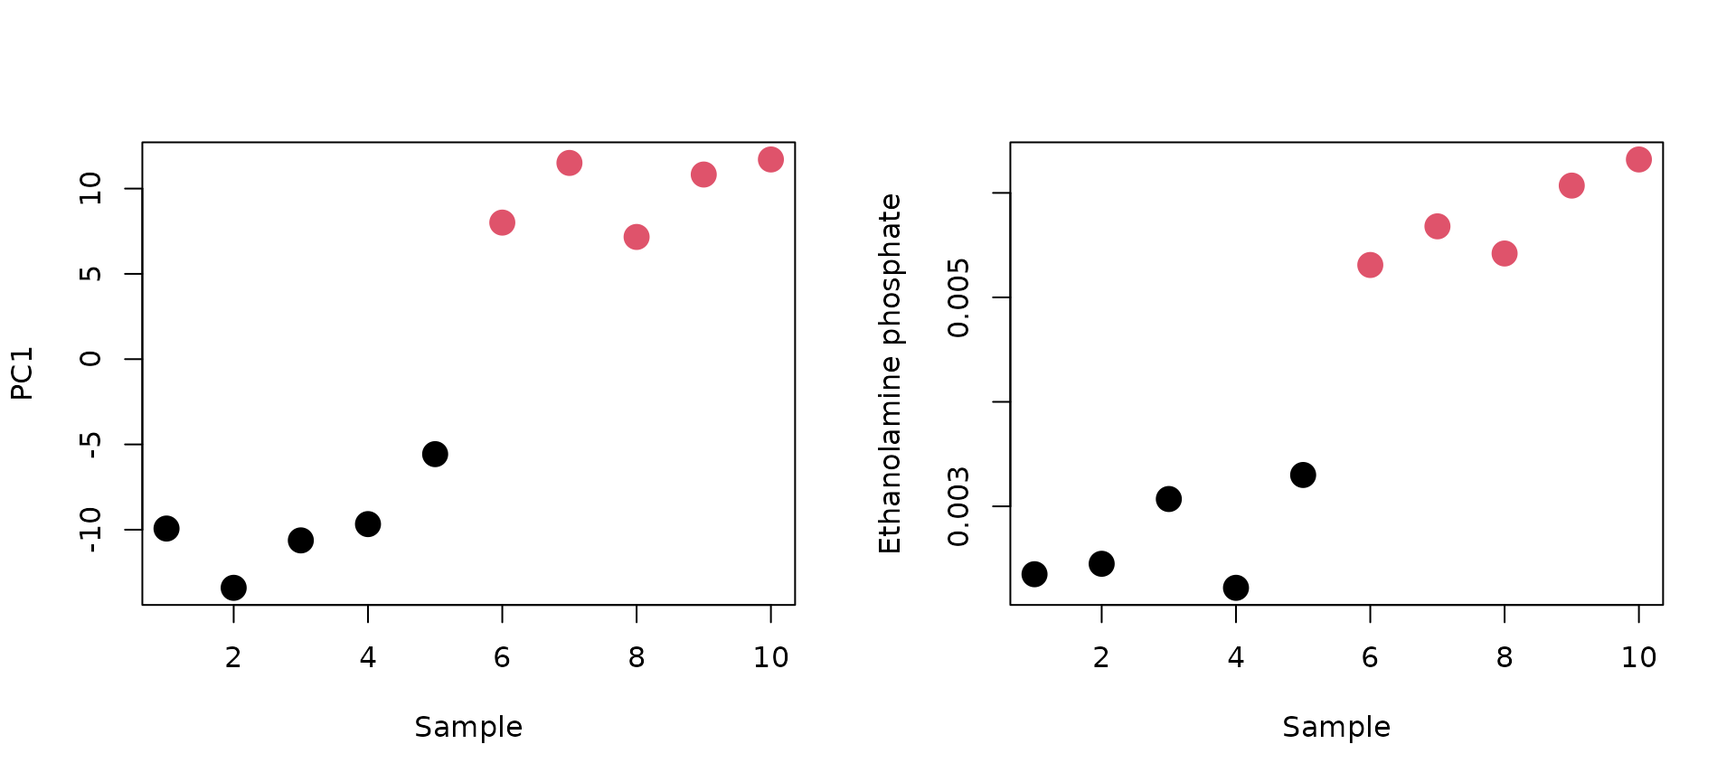
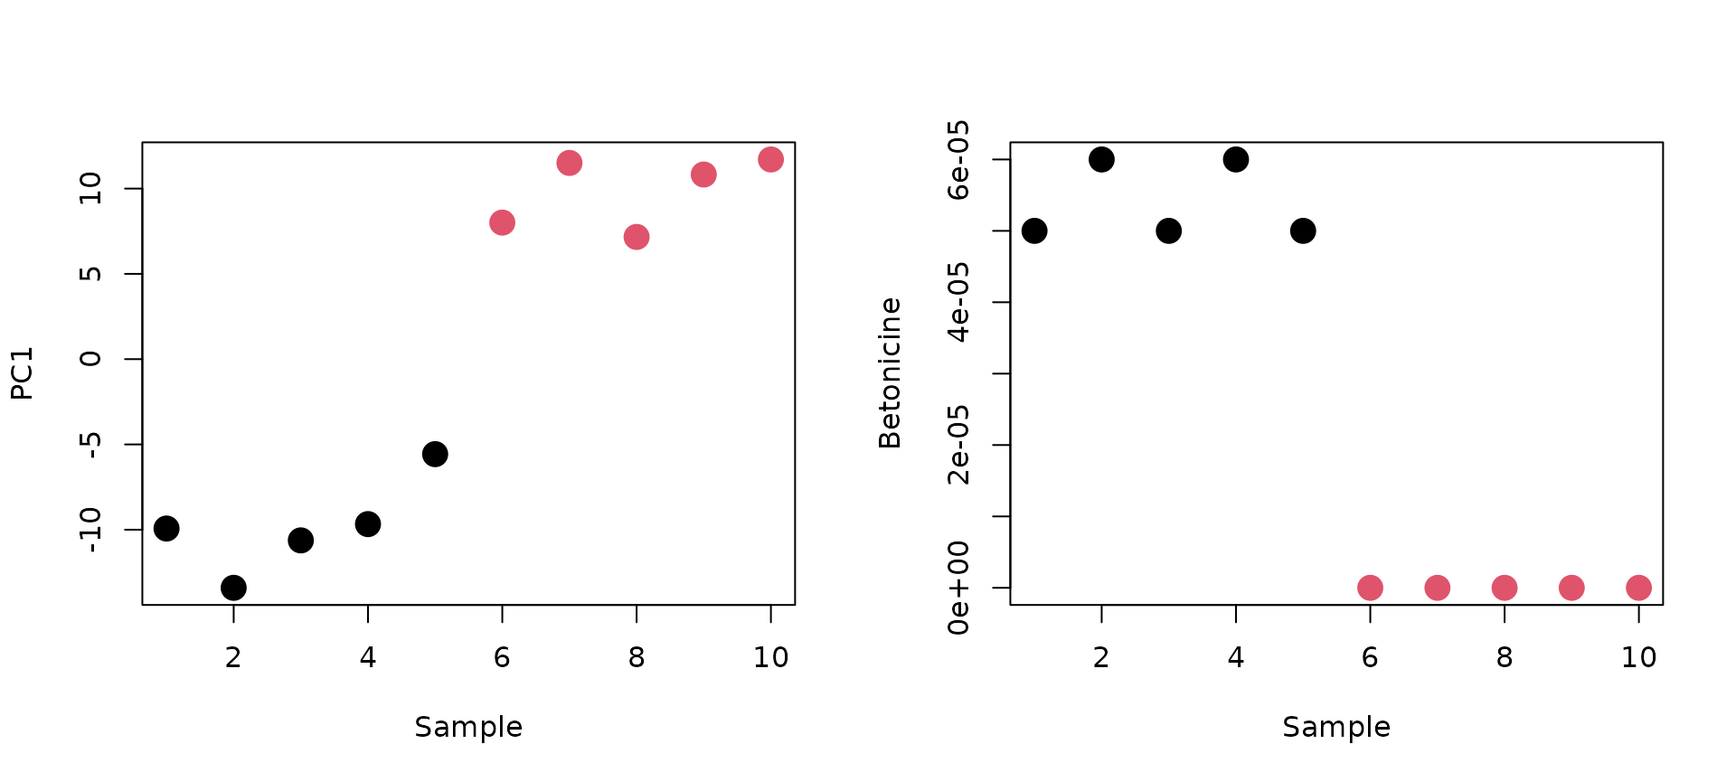
Deploying to gh-pages from  @ 76f66d41bde27bf479dec1cddfcc3a465d5d4350 🚀

diff --git a/articles/pca.html b/articles/pca.html
@@ -117,7 +117,7 @@ pre {
 <div id="主成分分析principal-component-analysis-pca" class="section level2">
 <h2 class="hasAnchor">
 <a href="#%E4%B8%BB%E6%88%90%E5%88%86%E5%88%86%E6%9E%90principal-component-analysis-pca" class="anchor"></a>主成分分析、Principal component analysis (PCA)</h2>
-loadingsパッケージを用いた主成分分析の流れについて説明する．
+<a href="https://cran.r-project.org/web/packages/loadings/index.html">loadingsパッケージ</a>を用いた主成分分析の流れについて説明する．
 <p>
 </p>
 <ul>
@@ -137,7 +137,6 @@ loadingsパッケージを用いた主成分分析の流れについて説明す
 <code class="sourceCode R"><span class="kw"><a href="https://rdrr.io/r/base/library.html">library</a></span><span class="op">(</span><span class="va">loadings</span><span class="op">)</span>
 
 <span class="fu"><a href="https://rdrr.io/r/utils/data.html">data</a></span><span class="op">(</span><span class="va">fasting</span><span class="op">)</span>
-
 <span class="va">X</span> <span class="op">&lt;-</span> <span class="va">fasting</span><span class="op">$</span><span class="va">X</span></code></pre></div>
 <p>主成分分析には，prcomp関数が用いられる．またここではデータをautoscaling(各代謝物毎に，平均0，分散1にする) によるスケーリングを行っている．第1主成分と第2主成分スコアをプロットしたものを以下に示す．</p>
 <div class="sourceCode" id="cb2"><pre class="downlit sourceCode r">
@@ -151,10 +150,8 @@ loadingsパッケージを用いた主成分分析の流れについて説明す
 <span class="va">class</span> <span class="op">&lt;-</span> <span class="fu"><a href="https://rdrr.io/r/base/c.html">c</a></span><span class="op">(</span><span class="fl">1</span>,<span class="fl">1</span>,<span class="fl">1</span>,<span class="fl">1</span>,<span class="fl">1</span>,<span class="fl">2</span>,<span class="fl">2</span>,<span class="fl">2</span>,<span class="fl">2</span>,<span class="fl">2</span><span class="op">)</span>
 <span class="fu"><a href="https://rdrr.io/r/graphics/plot.default.html">plot</a></span><span class="op">(</span><span class="va">PC_score</span>, col<span class="op">=</span><span class="va">class</span>, pch<span class="op">=</span><span class="fl">16</span>, cex<span class="op">=</span><span class="fl">2</span><span class="op">)</span></code></pre></div>
 <p><img src="pca_files/figure-html/unnamed-chunk-2-1.png" width="480"></p>
-黒丸が通常飼育，赤丸が12時間絶食後のマウスを表している．
-<p>
-主成分分析の結果より，第1主成分で群間差が確認されたことから，第1主成分スコアと関連する代謝物を確認することで，12時間の絶食で低値もしくは高値を示す代謝物を確認することが出来る．
-</p>
+黒丸が通常飼育，赤丸が12時間絶食後のマウスを表している．<br><p>
+主成分分析の結果より，第1主成分で群間差が確認されたことから，第1主成分スコアと関連する代謝物を確認することで，12時間の絶食で低値もしくは高値を示す代謝物を確認することが出来る．<br></p>
 <p>
 </p>
 <p>次に実際に第1主成分スコアと関連する代謝物を主成分係数を用いて確認する．主成分係数の値が正または負に大きな上位10個の代謝物は次のようになる．</p>
@@ -222,9 +219,9 @@ loadingsパッケージを用いた主成分分析の流れについて説明す
 <span class="va">p</span> <span class="op">&lt;-</span> <span class="va">pca</span><span class="op">$</span><span class="va">loading</span><span class="op">$</span><span class="va">p.value</span></code></pre></div>
 <p>また主成分負荷量の統計的仮説検定により，p-valueを用いて有意な代謝物を選ぶことも出来る．[<a href="https://bmcbioinformatics.biomedcentral.com/articles/10.1186/1471-2105-15-51">Yamamoto et al., BMC Bioinformatics, (2014) 15(1):51.</a>]</p>
 </div>
-<div id="主成分負荷量を用いて代謝物の選ぶ" class="section level2">
+<div id="主成分負荷量を用いて代謝物を選ぶ" class="section level2">
 <h2 class="hasAnchor">
-<a href="#%E4%B8%BB%E6%88%90%E5%88%86%E8%B2%A0%E8%8D%B7%E9%87%8F%E3%82%92%E7%94%A8%E3%81%84%E3%81%A6%E4%BB%A3%E8%AC%9D%E7%89%A9%E3%81%AE%E9%81%B8%E3%81%B6" class="anchor"></a>主成分負荷量を用いて代謝物の選ぶ</h2>
+<a href="#%E4%B8%BB%E6%88%90%E5%88%86%E8%B2%A0%E8%8D%B7%E9%87%8F%E3%82%92%E7%94%A8%E3%81%84%E3%81%A6%E4%BB%A3%E8%AC%9D%E7%89%A9%E3%82%92%E9%81%B8%E3%81%B6" class="anchor"></a>主成分負荷量を用いて代謝物を選ぶ</h2>
 <p>実際に，第1主成分負荷量を用いて第1主成分スコアと関連する代謝物を選ぶ手順を次に示す．</p>
 <div class="sourceCode" id="cb10"><pre class="downlit sourceCode r">
 <code class="sourceCode R"><span class="va">PC1_loading</span> <span class="op">&lt;-</span> <span class="va">PC_loading</span><span class="op">[</span>,<span class="fl">1</span><span class="op">]</span>
@@ -275,23 +272,21 @@ loadingsパッケージを用いた主成分分析の流れについて説明す
 <span class="va">q</span> <span class="op">&lt;-</span> <span class="fu"><a href="https://rdrr.io/r/stats/p.adjust.html">p.adjust</a></span><span class="op">(</span><span class="va">p_PC1</span>,method<span class="op">=</span><span class="st">"BH"</span><span class="op">)</span>
 <span class="fu"><a href="https://rdrr.io/r/base/sum.html">sum</a></span><span class="op">(</span><span class="va">q</span> <span class="op">&lt;</span> <span class="fl">0.05</span><span class="op">)</span></code></pre></div>
 <pre><code>## [1] 102</code></pre>
-<p>最後に，第1主成分スコアと最も相関の高い代謝物は，それぞれEthanolamine phosphateとBetonicineであり， その値はそれぞれEthanolamine phosphate(R=0.981, p=5.48×10<sup>-7,q=8.92×10</sup>-5)，Betonicine(R=-0.980, p=6.99×10<sup>-7,q=8.92×10</sup>-5)であった．</p>
+<p>最後に，第1主成分スコアと最も相関の高い代謝物は，それぞれEthanolamine phosphateとBetonicineであり， その値はそれぞれEthanolamine phosphate(R=0.981, p=5.48×10^-7, q=8.92×10^-5)，Betonicine(R=-0.980, p=6.99×10^-7, q=8.92×10^-5)であった．</p>
 <div class="sourceCode" id="cb22"><pre class="downlit sourceCode r">
-<code class="sourceCode R"><span class="co"># PC1 score</span>
-<span class="fu"><a href="https://rdrr.io/r/graphics/plot.default.html">plot</a></span><span class="op">(</span><span class="va">PC_score</span><span class="op">[</span>,<span class="fl">1</span><span class="op">]</span>, col<span class="op">=</span><span class="va">class</span>, pch<span class="op">=</span><span class="fl">16</span>, cex<span class="op">=</span><span class="fl">2</span><span class="op">)</span></code></pre></div>
-<p><img src="pca_files/figure-html/unnamed-chunk-9-1.png" width="480"></p>
-<div class="sourceCode" id="cb23"><pre class="downlit sourceCode r">
 <code class="sourceCode R"><span class="co"># Ethanolamine phosphate (top 1 positively correlated metabolite with PC1 score)</span>
 <span class="fu"><a href="https://rdrr.io/r/graphics/par.html">par</a></span><span class="op">(</span>mfrow<span class="op">=</span><span class="fu"><a href="https://rdrr.io/r/base/c.html">c</a></span><span class="op">(</span><span class="fl">1</span>,<span class="fl">2</span><span class="op">)</span><span class="op">)</span>
 <span class="fu"><a href="https://rdrr.io/r/graphics/plot.default.html">plot</a></span><span class="op">(</span><span class="va">PC_score</span><span class="op">[</span>,<span class="fl">1</span><span class="op">]</span>, col<span class="op">=</span><span class="va">class</span>, pch<span class="op">=</span><span class="fl">16</span>, cex<span class="op">=</span><span class="fl">2</span>, xlab<span class="op">=</span><span class="st">"Sample"</span>, ylab<span class="op">=</span><span class="st">"PC1"</span><span class="op">)</span>
 <span class="fu"><a href="https://rdrr.io/r/graphics/plot.default.html">plot</a></span><span class="op">(</span><span class="va">X</span><span class="op">[</span>,<span class="fu"><a href="https://rdrr.io/r/base/order.html">order</a></span><span class="op">(</span><span class="va">PC1_loading</span>, decreasing<span class="op">=</span><span class="cn">TRUE</span><span class="op">)</span><span class="op">[</span><span class="fl">1</span><span class="op">]</span><span class="op">]</span>,col<span class="op">=</span><span class="va">class</span>, pch<span class="op">=</span><span class="fl">16</span>, cex<span class="op">=</span><span class="fl">2</span>, xlab <span class="op">=</span><span class="st">"Sample"</span>, ylab<span class="op">=</span><span class="st">"Ethanolamine phosphate"</span><span class="op">)</span></code></pre></div>
-<p><img src="pca_files/figure-html/unnamed-chunk-10-1.png" width="960"></p>
-<div class="sourceCode" id="cb24"><pre class="downlit sourceCode r">
+<p><img src="pca_files/figure-html/unnamed-chunk-9-1.png" width="960"></p>
+<p>上図の左が第1主成分スコア，右がEthanolamine phosphateである．主成分負荷量(相関係数)の値が0.981と非常に高い値を示すことから分かるように，非常に良く似た傾向を示すことが確認できる．</p>
+<div class="sourceCode" id="cb23"><pre class="downlit sourceCode r">
 <code class="sourceCode R"><span class="co"># Betonicine (top 1 negatively correlated metabolite with PC1 score)</span>
 <span class="fu"><a href="https://rdrr.io/r/graphics/par.html">par</a></span><span class="op">(</span>mfrow<span class="op">=</span><span class="fu"><a href="https://rdrr.io/r/base/c.html">c</a></span><span class="op">(</span><span class="fl">1</span>,<span class="fl">2</span><span class="op">)</span><span class="op">)</span>
 <span class="fu"><a href="https://rdrr.io/r/graphics/plot.default.html">plot</a></span><span class="op">(</span><span class="va">PC_score</span><span class="op">[</span>,<span class="fl">1</span><span class="op">]</span>, col<span class="op">=</span><span class="va">class</span>, pch<span class="op">=</span><span class="fl">16</span>, cex<span class="op">=</span><span class="fl">2</span>, xlab<span class="op">=</span><span class="st">"Sample"</span>, ylab<span class="op">=</span><span class="st">"PC1"</span><span class="op">)</span>
 <span class="fu"><a href="https://rdrr.io/r/graphics/plot.default.html">plot</a></span><span class="op">(</span><span class="va">X</span><span class="op">[</span>,<span class="fu"><a href="https://rdrr.io/r/base/order.html">order</a></span><span class="op">(</span><span class="va">PC1_loading</span>, decreasing<span class="op">=</span><span class="cn">FALSE</span><span class="op">)</span><span class="op">[</span><span class="fl">1</span><span class="op">]</span><span class="op">]</span>,col<span class="op">=</span><span class="va">class</span>, pch<span class="op">=</span><span class="fl">16</span>, cex<span class="op">=</span><span class="fl">2</span>,xlab <span class="op">=</span><span class="st">"Sample"</span>, ylab<span class="op">=</span><span class="st">"Betonicine"</span><span class="op">)</span></code></pre></div>
-<p><img src="pca_files/figure-html/unnamed-chunk-10-2.png" width="960"></p>
+<p><img src="pca_files/figure-html/unnamed-chunk-10-1.png" width="960"></p>
+<p>上図の左が第1主成分スコア，右がBetonicineである．こちらは主成分負荷量(相関係数)の値が-0.980であり負に非常に高い値を示すことから，逆の傾向を示すことが確認できる．</p>
 </div>
   </div>
 

diff --git a/articles/xcms.html b/articles/xcms.html
@@ -188,24 +188,25 @@ FAAH遺伝子欠損マウスの脊椎のメタボロームデータ(Wild type，
 <code class="sourceCode R"><span class="va">tic</span> <span class="op">&lt;-</span> <span class="fu"><a href="https://rdrr.io/pkg/xcms/man/chromatogram-method.html">chromatogram</a></span><span class="op">(</span><span class="va">xdata</span>, aggregationFun<span class="op">=</span><span class="st">"sum"</span><span class="op">)</span>
 <span class="fu"><a href="https://rdrr.io/r/graphics/plot.default.html">plot</a></span><span class="op">(</span><span class="va">tic</span>,xlim<span class="op">=</span><span class="fu"><a href="https://rdrr.io/r/base/c.html">c</a></span><span class="op">(</span><span class="fl">2760</span>,<span class="fl">2820</span><span class="op">)</span>, peakType<span class="op">=</span><span class="st">"none"</span><span class="op">)</span></code></pre></div>
 <p><img src="xcms_files/figure-html/unnamed-chunk-3-1.png" width="700"></p>
-<p>そこで，クロマトグラムの保持時間の補正をObiwarp法を用いて行った結果を次に示す．</p>
+<p>そこで，クロマトグラムの保持時間をObiwarp法を用いて補正した結果を次に示す．</p>
 <div class="sourceCode" id="cb6"><pre class="downlit sourceCode r">
 <code class="sourceCode R"><span class="va">xdata</span> <span class="op">&lt;-</span> <span class="fu"><a href="https://rdrr.io/pkg/xcms/man/adjustRtime.html">adjustRtime</a></span><span class="op">(</span><span class="va">xdata</span>, param <span class="op">=</span> <span class="fu"><a href="https://rdrr.io/pkg/xcms/man/adjustRtime-obiwarp.html">ObiwarpParam</a></span><span class="op">(</span>binSize <span class="op">=</span> <span class="fl">0.6</span><span class="op">)</span><span class="op">)</span>
 
 <span class="va">tic</span> <span class="op">&lt;-</span> <span class="fu"><a href="https://rdrr.io/pkg/xcms/man/chromatogram-method.html">chromatogram</a></span><span class="op">(</span><span class="va">xdata</span>, aggregationFun<span class="op">=</span><span class="st">"sum"</span><span class="op">)</span>
 <span class="fu"><a href="https://rdrr.io/r/graphics/plot.default.html">plot</a></span><span class="op">(</span><span class="va">tic</span>,xlim<span class="op">=</span><span class="fu"><a href="https://rdrr.io/r/base/c.html">c</a></span><span class="op">(</span><span class="fl">2760</span>,<span class="fl">2820</span><span class="op">)</span>, peakType<span class="op">=</span><span class="st">"none"</span><span class="op">)</span></code></pre></div>
 <p><img src="xcms_files/figure-html/unnamed-chunk-4-1.png" width="700"></p>
-<p>この結果より，補正前に比べてサンプル間の保持時間のズレが小さくなっていることが確認できる． クロマトグラムのアライメントのパラメーターの値は，ピークピッキングと同様にXCMSのドキュメントに記載されたものを そのまま利用しているが，クロマトグラムの保持時間のズレ方は分析法によって異なることから，実際は試行錯誤で決める必要がある．</p>
+この結果より，補正前に比べてサンプル間の保持時間のズレが小さくなっていることが確認できる．<br><p>
+</p>
+<p>クロマトグラムのアライメントのパラメーターの値は，ピークピッキングと同様にXCMSのドキュメントに記載されたものを そのまま利用しているが，クロマトグラムの保持時間のズレ方は分析法によって異なることから，実際は試行錯誤により決める必要がある．</p>
 </div>
 <div id="ピークの対応付け" class="section level2">
 <h2 class="hasAnchor">
 <a href="#%E3%83%94%E3%83%BC%E3%82%AF%E3%81%AE%E5%AF%BE%E5%BF%9C%E4%BB%98%E3%81%91" class="anchor"></a>ピークの対応付け</h2>
-<p>次に，それぞれのサンプル間でのピークを対応付けをgroupChromPeaks関数を用いて行う． PeakDensityParamはこれまでと同様に，パラメーターを変えながら試行錯誤で決める必要がある．</p>
+<p>次に，それぞれのサンプル間でのピークを対応付けをgroupChromPeaks関数を用いて行う． PeakDensityParamはこれまでと同様に，パラメーターを変えながら試行錯誤により決める必要がある．</p>
 <div class="sourceCode" id="cb7"><pre class="downlit sourceCode r">
 <code class="sourceCode R"><span class="co">## Group Peaks</span>
 <span class="va">sample_group</span> <span class="op">&lt;-</span> <span class="fu"><a href="https://rdrr.io/r/base/c.html">c</a></span><span class="op">(</span><span class="fl">1</span>,<span class="fl">1</span>,<span class="fl">1</span>,<span class="fl">1</span>,<span class="fl">1</span>,<span class="fl">1</span>,<span class="fl">1</span>,<span class="fl">1</span>,<span class="fl">1</span>,<span class="fl">1</span>,<span class="fl">1</span>,<span class="fl">1</span><span class="op">)</span>
 
-<span class="co">#sample_group &lt;- cdfs</span>
 <span class="va">pdp</span> <span class="op">&lt;-</span> <span class="fu"><a href="https://rdrr.io/pkg/xcms/man/groupChromPeaks-density.html">PeakDensityParam</a></span><span class="op">(</span>sampleGroups <span class="op">=</span> <span class="va">sample_group</span>, minFraction <span class="op">=</span> <span class="fl">0.4</span>, bw <span class="op">=</span> <span class="fl">30</span><span class="op">)</span>
 <span class="va">xdata</span> <span class="op">&lt;-</span> <span class="fu"><a href="https://rdrr.io/pkg/xcms/man/groupChromPeaks.html">groupChromPeaks</a></span><span class="op">(</span><span class="va">xdata</span>, param <span class="op">=</span> <span class="va">pdp</span><span class="op">)</span></code></pre></div>
 <p>sampleGroupsはここでは全て1のベクトルを設定したが，例えば以下<br> sample_group &lt;- c(“KO”, “KO”, “KO”, “KO”, “KO”, “KO”, “WT”, “WT”, “WT”, “WT”, “WT”, “WT”)<br> のように，群毎に設定しても良い．</p>
@@ -248,7 +249,7 @@ FAAH遺伝子欠損マウスの脊椎のメタボロームデータ(Wild type，
 ## FT004  311296.8  255216.99  132769.2  366441.5  271128.02
 ## FT005 1739516.6  872221.89  214367.8  639755.3  508546.42
 ## FT006  135905.0  143917.91  118929.2  105907.5   85332.36</code></pre>
-<p>欠損ピークの穴埋めを行った後で、それでも欠損値になっていれば0を埋める</p>
+<p>fillChromPeaks関数により欠損ピークの穴埋めを行った後で、それでも欠損値になっていれば0を埋める</p>
 </div>
 <div id="データ行列" class="section level2">
 <h2 class="hasAnchor">
@@ -256,7 +257,6 @@ FAAH遺伝子欠損マウスの脊椎のメタボロームデータ(Wild type，
 <div class="sourceCode" id="cb12"><pre class="downlit sourceCode r">
 <code class="sourceCode R"><span class="va">data</span> <span class="op">&lt;-</span> <span class="fu"><a href="https://rdrr.io/r/base/t.html">t</a></span><span class="op">(</span><span class="fu"><a href="https://rdrr.io/pkg/xcms/man/XCMSnExp-peak-grouping-results.html">featureValues</a></span><span class="op">(</span><span class="va">xdata</span>, value<span class="op">=</span><span class="st">"into"</span><span class="op">)</span><span class="op">)</span> <span class="co"># sample*peak</span>
 
-<span class="co"># 行名と列名は付けるほうが良い</span>
 <span class="va">data</span><span class="op">[</span><span class="fu"><a href="https://rdrr.io/r/base/NA.html">is.na</a></span><span class="op">(</span><span class="va">data</span><span class="op">)</span><span class="op">]</span> <span class="op">&lt;-</span> <span class="fl">0</span></code></pre></div>
 <p>最後に主成分分析を行ってデータを可視化する。<br></p>
 </div>
@@ -276,7 +276,7 @@ FAAH遺伝子欠損マウスの脊椎のメタボロームデータ(Wild type，
 <div id="その他" class="section level2">
 <h2 class="hasAnchor">
 <a href="#%E3%81%9D%E3%81%AE%E4%BB%96" class="anchor"></a>その他</h2>
-<p>全体を通して，xcmsではピークピッキング，クロマトグラムのアライメント，ピークの対応付けの各ステップで，複数のパラメーターを設定する必要があることがわかる．xcmsのパラメーターをチューニングするためのBioconductorパッケージとして<a href="https://bioconductor.org/packages/release/bioc/html/IPO.html">IPO</a>や<a href="https://bioconductor.org/packages/release/bioc/html/Autotuner.html">AutoTuner</a>がある． 一方で，Lassenら(<a href="https://doi.org/10.1021/acs.analchem.1c02000">https://doi.org/10.1021/acs.analchem.1c02000</a>)は，LC-MSの専門家がマニュアルで選んだパラメーターが最も良い結果であったと報告している．</p>
+<p>全体を通して，xcmsではピークピッキング，クロマトグラムのアライメント，ピークの対応付けの各ステップで，複数のパラメーターを設定する必要があることがわかる．xcmsのパラメーターをチューニングするためのBioconductorパッケージとして<a href="https://bioconductor.org/packages/release/bioc/html/IPO.html">IPO</a>や<a href="https://bioconductor.org/packages/release/bioc/html/Autotuner.html">AutoTuner</a>がある． 一方で，<a href="https://doi.org/10.1021/acs.analchem.1c02000">Lassenら</a>は，LC-MSの専門家がマニュアルで選んだパラメーターが最も良い結果であったと報告している．</p>
 </div>
   </div>
 

diff --git a/articles/pls.html b/articles/pls.html
@@ -173,8 +173,9 @@ pre {
 <div class="sourceCode" id="cb4"><pre class="downlit sourceCode r">
 <code class="sourceCode R"><span class="co"># PLS</span>
 <span class="va">pls</span> <span class="op">&lt;-</span> <span class="fu"><a href="https://rdrr.io/pkg/loadings/man/pls_svd.html">pls_svd</a></span><span class="op">(</span><span class="va">X</span>,<span class="va">Y</span><span class="op">)</span>
+<span class="co"># pls &lt;- pls_eigen(X,Y,2) # chemometricsパッケージのpls_eigen関数の場合</span>
 
-<span class="co"># explanatory variable</span>
+<span class="co"># PLSスコア</span>
 <span class="va">PLS_score</span> <span class="op">&lt;-</span> <span class="va">pls</span><span class="op">$</span><span class="cn">T</span><span class="op">[</span>,<span class="fu"><a href="https://rdrr.io/r/base/c.html">c</a></span><span class="op">(</span><span class="fl">1</span>,<span class="fl">2</span><span class="op">)</span><span class="op">]</span> <span class="co"># First and second PLS</span>
 
 <span class="va">class</span> <span class="op">&lt;-</span> <span class="fu"><a href="https://rdrr.io/r/base/c.html">c</a></span><span class="op">(</span><span class="fl">1</span>,<span class="fl">1</span>,<span class="fl">1</span>,<span class="fl">2</span>,<span class="fl">2</span>,<span class="fl">2</span>,<span class="fl">3</span>,<span class="fl">3</span>,<span class="fl">3</span><span class="op">)</span>
@@ -343,7 +344,7 @@ pre {
 <div id="partial-least-squares-rank-order-of-groups-pls-rogを用いた解析" class="section level2">
 <h2 class="hasAnchor">
 <a href="#partial-least-squares-rank-order-of-groups-pls-rog%E3%82%92%E7%94%A8%E3%81%84%E3%81%9F%E8%A7%A3%E6%9E%90" class="anchor"></a>Partial least squares rank order of groups (PLS-ROG)を用いた解析</h2>
-ここまでPLSを用いて解析を行って来た．PLSでは，Wild typeと高脂血症群の違いは確認出来たが，高脂血症ウサギに薬剤を投与した時の影響については，明確には確認出来なかった．
+PLSでは，Wild typeと高脂血症群の違いは確認出来たが，高脂血症ウサギに薬剤を投与した時の影響については，明確には確認出来なかった．
 <p>
 </p>
 <p>そこで群に順序があるデータに適したPLS-ROG[<a href="https://analyticalsciencejournals.onlinelibrary.wiley.com/doi/10.1002/cem.2883">Yamamoto, H. PLS-ROG: Partial least squares with rank order of groups.J.Chemom. 2017, 31, e2883.</a>]を用いて解析を行った結果を次に示す．</p>
@@ -386,9 +387,9 @@ pre {
 <span class="fu"><a href="https://rdrr.io/r/graphics/boxplot.html">boxplot</a></span><span class="op">(</span><span class="va">PLSROG_score_Y</span><span class="op">[</span>,<span class="fl">1</span><span class="op">]</span><span class="op">~</span><span class="va">class</span>, ylab<span class="op">=</span><span class="st">"PLS-ROG1"</span>, main<span class="op">=</span><span class="st">"PLS-ROG(Y) Score"</span><span class="op">)</span></code></pre></div>
 <p><img src="pls_files/figure-html/unnamed-chunk-14-1.png" width="960"></p>
 </div>
-<div id="pls-rog-loadings" class="section level2">
+<div id="pls-rog負荷量を用いて代謝物を選ぶ" class="section level2">
 <h2 class="hasAnchor">
-<a href="#pls-rog-loadings" class="anchor"></a>PLS-ROG loadings</h2>
+<a href="#pls-rog%E8%B2%A0%E8%8D%B7%E9%87%8F%E3%82%92%E7%94%A8%E3%81%84%E3%81%A6%E4%BB%A3%E8%AC%9D%E7%89%A9%E3%82%92%E9%81%B8%E3%81%B6" class="anchor"></a>PLS-ROG負荷量を用いて代謝物を選ぶ</h2>
 <p>
 PLS-ROG負荷量は，PLS負荷量と同じく「目的変数のスコアと各代謝物レベルの相関係数」として定義され， 相関係数の値そのものや，統計的仮説検定を用いて有意な代謝物を選ぶことが出来る．
 </p>
